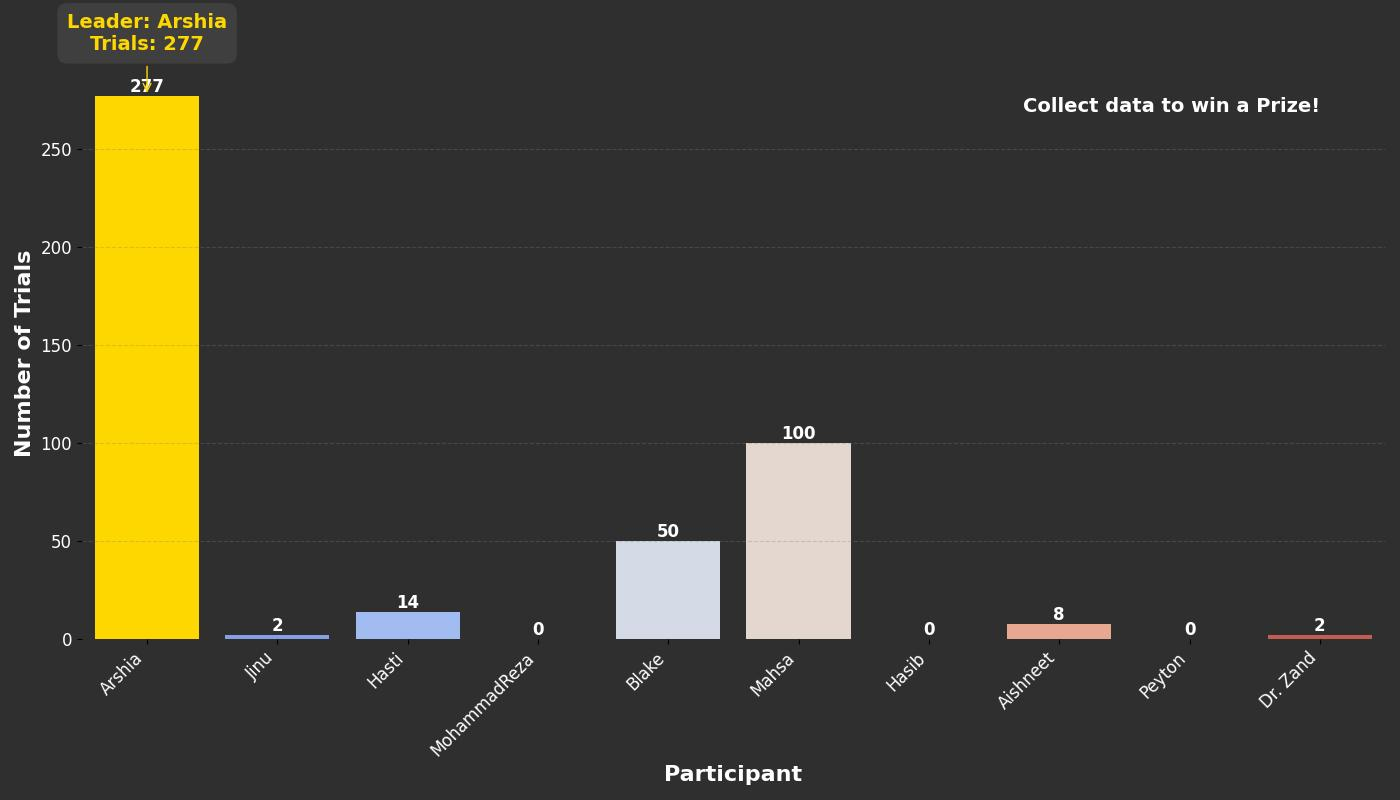
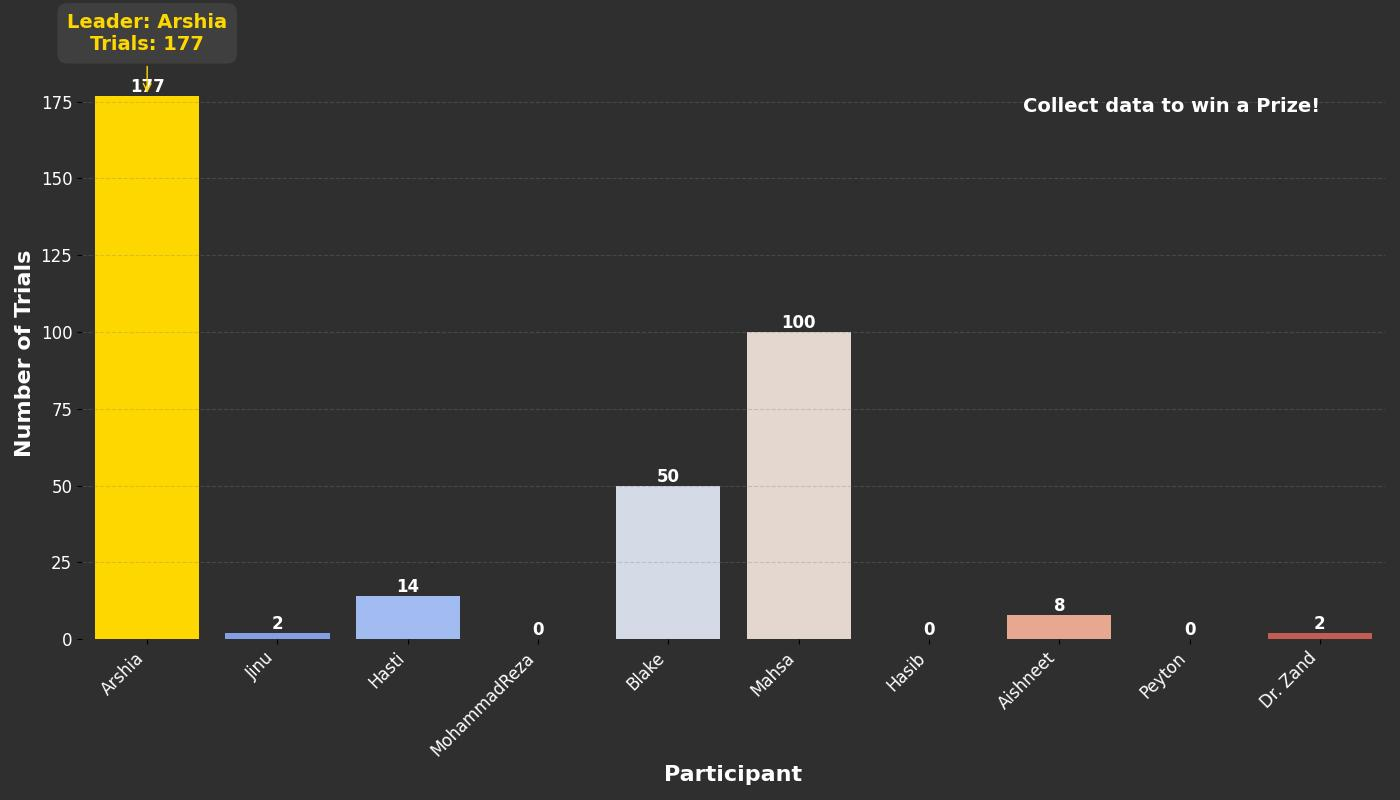
changing GUI

diff --git a/record/dvs_record.py b/record/dvs_record.py
@@ -119,26 +119,30 @@ class DVSInterface:
 
     def _create_main_screen(self):
         self._create_frames()
-        self._create_buttons()
         self._create_display()
+        self._create_buttons()
 
     def _create_frames(self):
-        intro_label = tk.Label(self.root, text=f"Welcome to DVS Data Collection, {self.settings.username}!", bg="#F8F8FF", fg="#2F4F4F")
-        intro_label.pack(pady=10)
+        intro_label = tk.Label(self.root, text=f"Welcome to DVS Data Collection, {self.settings.username}!\n Please select a label and duration to begin.", 
+                               font=("Arial", 12, "bold"), bg="#F8F8FF", fg="#2F4F4F")
+        intro_label.pack(pady=20)
 
-        top_frame = tk.Frame(self.root, bg="#F8F8FF")
-        top_frame.pack(expand=True)
+        self.display_frame = tk.Frame(self.root, bg="#F8F8FF")
+        self.display_frame.pack(expand=True)
 
-        self.left_frame = tk.Frame(top_frame, bg="#F8F8FF")
+        bottom_frame = tk.Frame(self.root, bg="#F8F8FF")
+        bottom_frame.pack(expand=True)
+
+        self.left_frame = tk.Frame(bottom_frame, bg="#F8F8FF")
         self.left_frame.pack(side="left", padx=5)
 
-        self.countdown_frame = tk.Frame(top_frame, bg="#F8F8FF")
+        self.countdown_frame = tk.Frame(bottom_frame, bg="#F8F8FF")
         self.countdown_frame.pack(side="right", padx=5)
 
-        self.right_frame = tk.Frame(top_frame, bg="#F8F8FF")
+        self.right_frame = tk.Frame(bottom_frame, bg="#F8F8FF")
         self.right_frame.pack(anchor=tk.CENTER, side='right', padx=5)
 
-        self.middle_frame = tk.Frame(top_frame, bg="#F8F8FF")
+        self.middle_frame = tk.Frame(bottom_frame, bg="#F8F8FF")
         self.middle_frame.pack(side="right")
 
     def _create_buttons(self):
@@ -172,9 +176,9 @@ class DVSInterface:
         self.replay_button = RoundedButton(button_frame, 150, 40, 8, 2, "#f0f0f0", "Replay", command=self.show_replay, bg="#FFD700", fg="#2F4F4F")
         self.replay_button.pack(side='top', pady=3)
         self.replay_button.disable_action()
+
     def start_recording(self):
         self.disable_buttons()
-        # self.record_button.disable_action()
         self.save_button.disable_action()
         self.delete_button.disable_action()
         self.replay_button.disable_action()
@@ -185,7 +189,6 @@ class DVSInterface:
         self._countdown(duration, "green", "End!")
         print("Countdown ended")
         self._update_button_states(record=tk.DISABLED, others=tk.NORMAL)
-
 
     def disable_action_buttons(self):
         self.save_button.disable_action()
@@ -208,6 +211,7 @@ class DVSInterface:
             button.enable_action()
         for button in self.duration_buttons.values():
             button.enable_action()
+
     def _countdown(self, duration, color, final_text):
         start_time = time.time()
         while time.time() - start_time < duration:
@@ -218,10 +222,6 @@ class DVSInterface:
             self.root.update()
 
     def _update_button_states(self, record, others):
-        # self.record_button.config(state=record)
-        # self.save_button.config(state=others)
-        # self.delete_button.config(state=others)
-        # self.replay_button.config(state=others)
         self.record_button.disable_action()
         self.save_button.enable_action()
         self.delete_button.enable_action()
@@ -254,8 +254,8 @@ class DVSInterface:
 
     def _create_display(self):
         # Create a frame with a border
-        frame_border = tk.Frame(self.root, borderwidth=5, bg="#00BFFF")  # Deep Sky Blue border
-        frame_border.pack(side="bottom", pady=20)
+        frame_border = tk.Frame(self.display_frame, borderwidth=5, bg="#00BFFF")  # Deep Sky Blue border
+        frame_border.pack(side="top", pady=20)
 
         # Create the display label inside the border frame
         self.frame_display = tk.Label(frame_border, image=None, bg="#F8F8FF")  # Ghost White background
@@ -269,12 +269,9 @@ class DVSInterface:
         self.root.mainloop()
 
     def _on_button_click(self, key, value, buttons):
-        # buttons[key].config(relief=tk.SUNKEN, bg="#00BFFF")
         buttons[key].change_foreground_color("#2F4F4F")
         for other_key, button in buttons.items():
             if other_key != key:
-                # button.config(relief=tk.RAISED, bg='#FFD700')
-                # button.change_foreground_color("#2F4F4F")
                 button.disable_action()
 
         self.settings.update_setting(value)
@@ -446,7 +443,6 @@ class DVSManager:
                 self.camera.record(seconds)
                 self.camera.playback_recording()
                 while (not self.recording_ended) and (self.running):
-                    # print("Waiting for recording to end...")
                     if self.interface.replaying:
                         self.camera.playback_recording()
                         self.interface.replaying = False

diff --git a/competition.py b/competition.py
@@ -8,7 +8,7 @@ def get_file_names(directory):
     return [f for f in os.listdir(directory) if os.path.isfile(os.path.join(directory, f))]
 
 file_names = get_file_names('./data')
-progress = {"Arshia" : 0, "Jinu" : 0, "Hasti" : 0, "MohammadReza" : 0, "Blake" : 0, "Mahsa" : 0,"Hasib" : 0, "Aishneet" : 0, "Peyton" : 0, "Dr. Zand": 0}
+progress = {"Arshia" : -100, "Jinu" : 0, "Hasti" : 0, "MohammadReza" : 0, "Blake" : 0, "Mahsa" : 0,"Hasib" : 0, "Aishneet" : 0, "Peyton" : 0, "Dr. Zand": 0}
 
 for item in file_names:
     for key, value in progress.items():
